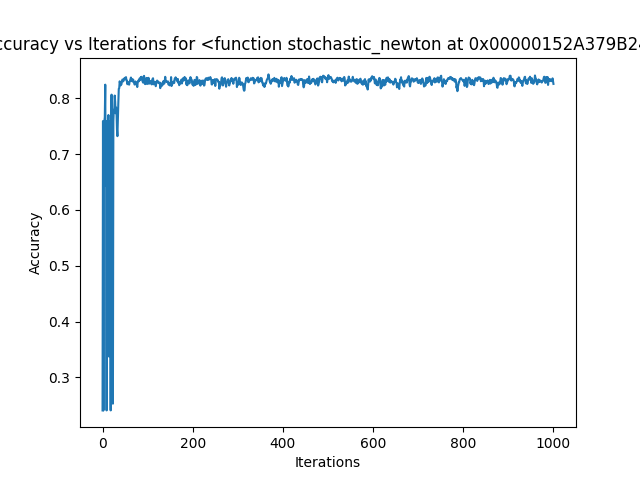
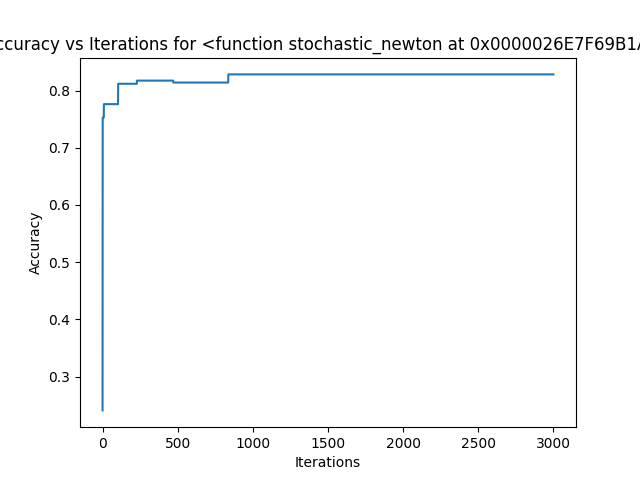
stochastic newton update

diff --git a/Experiment.py b/Experiment.py
@@ -79,7 +79,7 @@ def gradient_descent(X, y, predictions, weights, bias, learning_rate, minibatch_
     bias -= learning_rate * bias_gradient
     return weights, bias
 
-def stochastic_newton(X,y,predictions, weights, bias, learning_rate, minibatch_size, hessian_function, gradient_function):
+def stochastic_newton(X,y,predictions, weights, bias, learning_rate, minibatch_size, hessian_function, gradient_function, Loss_function):
     # choose batch
     if minibatch_size >= X.shape[0]:
         X_batch = X
@@ -92,7 +92,18 @@ def stochastic_newton(X,y,predictions, weights, bias, learning_rate, minibatch_s
     # calculate xk+1
     Hk = hessian_function(weights, X_batch, y_batch)
     gk = gradient_function(weights, X_batch, y_batch)
-    weights -= learning_rate*np.dot(np.linalg.inv(Hk), gk)
+
+
+    #update only if successful
+    old_prediction = sigmoid(np.dot(X, weights))
+    old_loss = Loss_function(y, old_prediction)
+    new_weights = weights - learning_rate*np.dot(np.linalg.inv(Hk), gk)
+    new_prediction = sigmoid(np.dot(X, new_weights))
+    new_loss = Loss_function(y, new_prediction)
+
+    if old_loss>new_loss:
+        weights = new_weights
+
     return weights, 0
 
 def logistic_loss_hessian( w, X, Y, alpha=1e-3):
@@ -117,7 +128,7 @@ def logistic_loss_gradient(w, X, Y, alpha=1e-3):
 
 def optimization(X, y, optimization_method, Loss_function, learning_rate=0.01, epochs=1000, tolerance=1e-6):
     m, n = X.shape
-    weights = np.ones((n, 1))*0.5
+    weights = np.ones((n, 1))*0.001
     bias = np.zeros((1, 1))
     accuracy_list = []
     loss_list = []
@@ -135,8 +146,8 @@ def optimization(X, y, optimization_method, Loss_function, learning_rate=0.01, e
         loss = Loss_function(y, predictions)
         loss_list.append(loss)
         # Do a optimization step with given method
-        weights, bias = optimization_method(X, y, predictions, weights, bias, learning_rate, minibatch_size = 128,
-                                             hessian_function = logistic_loss_hessian, gradient_function = logistic_loss_gradient)
+        weights, bias = optimization_method(X, y, predictions, weights, bias, learning_rate, minibatch_size = 32,
+                                             hessian_function = logistic_loss_hessian, gradient_function = logistic_loss_gradient, Loss_function = Loss_function)
         
         # Compute accuracy
         accuracy = compute_accuracy(X, y, weights, bias)
@@ -162,8 +173,8 @@ def compute_accuracy(X, y, weights, bias):
 # Main function
 def main():
     X_train, X_test, y_train, y_test = load_a9a()
-    learning_rate = 0.25
-    epochs = 1000
+    learning_rate = 1
+    epochs = 3000
     optimization_method = stochastic_newton
 
 
@@ -184,7 +195,7 @@ def main():
     plt.plot(accuracy_list)
     plt.xlabel('Iterations')
     plt.ylabel('Accuracy')
-    plt.title(f'Accuracy vs Iterations for {optimization_method}')
+    plt.title(f'Accuracy vs Iterations for {optimization_method.__name__}')
     plt.savefig('accuracy_plot.png')  # Save plot as PNG file
     plt.close()  # Close the plot window
 
